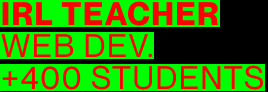
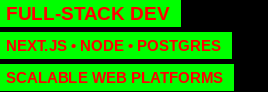
Update Career Area textures and timeline to Neelesh Yadav credentials

diff --git a/sources/Game/Game.js b/sources/Game/Game.js
@@ -163,12 +163,12 @@ export class Game
                 [ 'interactivePointsKeyIconATexture',      `interactivePoints/interactivePointsKeyIconA.${compressedTextureExtension}${cb}`,     compressedTextureFormat, (resource) => { resource.minFilter = THREE.NearestFilter; resource.magFilter = THREE.NearestFilter; resource.generateMipmaps = false } ],
                 [ 'jukeboxMusicNotes',                     `jukebox/jukeboxMusicNotes.${compressedTextureExtension}${cb}`,                       compressedTextureFormat, (resource) => { resource.minFilter = THREE.LinearFilter; resource.magFilter = THREE.LinearFilter; resource.generateMipmaps = false } ],
                 [ 'achievementsGlyphsTexture',             `achievements/glyphs.${compressedTextureExtension}${cb}`,                             compressedTextureFormat, (resource) => { resource.minFilter = THREE.LinearFilter; resource.magFilter = THREE.LinearFilter; resource.generateMipmaps = false; resource.wrapS = THREE.RepeatWrapping; } ],
-                [ 'careerFreelancerTexture',               `career/careerFreelancer.${compressedTextureExtension}${cb}`,                         compressedTextureFormat, (resource) => { resource.flipY = false; resource.minFilter = THREE.LinearFilter; resource.magFilter = THREE.LinearFilter; resource.generateMipmaps = false; resource.wrapS = THREE.ClampToEdgeWrapping; resource.wrapT = THREE.ClampToEdgeWrapping; } ],
-                [ 'careerHeticTexture',                    `career/careerHetic.${compressedTextureExtension}${cb}`,                              compressedTextureFormat, (resource) => { resource.flipY = false; resource.minFilter = THREE.LinearFilter; resource.magFilter = THREE.LinearFilter; resource.generateMipmaps = false; resource.wrapS = THREE.ClampToEdgeWrapping; resource.wrapT = THREE.ClampToEdgeWrapping; } ],
-                [ 'careerImmersiveGardenTexture',          `career/careerImmersiveGarden.${compressedTextureExtension}${cb}`,                    compressedTextureFormat, (resource) => { resource.flipY = false; resource.minFilter = THREE.LinearFilter; resource.magFilter = THREE.LinearFilter; resource.generateMipmaps = false; resource.wrapS = THREE.ClampToEdgeWrapping; resource.wrapT = THREE.ClampToEdgeWrapping; } ],
-                [ 'careerIRLTeacherTexture',               `career/careerIRLTeacher.${compressedTextureExtension}${cb}`,                         compressedTextureFormat, (resource) => { resource.flipY = false; resource.minFilter = THREE.LinearFilter; resource.magFilter = THREE.LinearFilter; resource.generateMipmaps = false; resource.wrapS = THREE.ClampToEdgeWrapping; resource.wrapT = THREE.ClampToEdgeWrapping; } ],
-                [ 'careerOnlineTeacherTexture',            `career/careerOnlineTeacher.${compressedTextureExtension}${cb}`,                      compressedTextureFormat, (resource) => { resource.flipY = false; resource.minFilter = THREE.LinearFilter; resource.magFilter = THREE.LinearFilter; resource.generateMipmaps = false; resource.wrapS = THREE.ClampToEdgeWrapping; resource.wrapT = THREE.ClampToEdgeWrapping; } ],
-                [ 'careerUzikTexture',                     `career/careerUzik.${compressedTextureExtension}${cb}`,                               compressedTextureFormat, (resource) => { resource.flipY = false; resource.minFilter = THREE.LinearFilter; resource.magFilter = THREE.LinearFilter; resource.generateMipmaps = false; resource.wrapS = THREE.ClampToEdgeWrapping; resource.wrapT = THREE.ClampToEdgeWrapping; } ],
+                [ 'careerFreelancerTexture',               `career/careerFreelancer.png${cb}`,                                   'texture', (resource) => { resource.flipY = false; resource.minFilter = THREE.LinearFilter; resource.magFilter = THREE.LinearFilter; resource.generateMipmaps = false; resource.wrapS = THREE.ClampToEdgeWrapping; resource.wrapT = THREE.ClampToEdgeWrapping; } ],
+                [ 'careerHeticTexture',                    `career/careerHetic.png${cb}`,                                        'texture', (resource) => { resource.flipY = false; resource.minFilter = THREE.LinearFilter; resource.magFilter = THREE.LinearFilter; resource.generateMipmaps = false; resource.wrapS = THREE.ClampToEdgeWrapping; resource.wrapT = THREE.ClampToEdgeWrapping; } ],
+                [ 'careerImmersiveGardenTexture',          `career/careerImmersiveGarden.png${cb}`,                              'texture', (resource) => { resource.flipY = false; resource.minFilter = THREE.LinearFilter; resource.magFilter = THREE.LinearFilter; resource.generateMipmaps = false; resource.wrapS = THREE.ClampToEdgeWrapping; resource.wrapT = THREE.ClampToEdgeWrapping; } ],
+                [ 'careerIRLTeacherTexture',               `career/careerIRLTeacher.png${cb}`,                                   'texture', (resource) => { resource.flipY = false; resource.minFilter = THREE.LinearFilter; resource.magFilter = THREE.LinearFilter; resource.generateMipmaps = false; resource.wrapS = THREE.ClampToEdgeWrapping; resource.wrapT = THREE.ClampToEdgeWrapping; } ],
+                [ 'careerOnlineTeacherTexture',            `career/careerOnlineTeacher.png${cb}`,                                'texture', (resource) => { resource.flipY = false; resource.minFilter = THREE.LinearFilter; resource.magFilter = THREE.LinearFilter; resource.generateMipmaps = false; resource.wrapS = THREE.ClampToEdgeWrapping; resource.wrapT = THREE.ClampToEdgeWrapping; } ],
+                [ 'careerUzikTexture',                     `career/careerUzik.png${cb}`,                                         'texture', (resource) => { resource.flipY = false; resource.minFilter = THREE.LinearFilter; resource.magFilter = THREE.LinearFilter; resource.generateMipmaps = false; resource.wrapS = THREE.ClampToEdgeWrapping; resource.wrapT = THREE.ClampToEdgeWrapping; } ],
                 [ 'timeMachineScreenMGSTexture',           `timeMachine/timeMachineScreenMGS.${compressedTextureExtension}${cb}`,                compressedTextureFormat, (resource) => { resource.minFilter = THREE.NearestFilter; resource.magFilter = THREE.NearestFilter; resource.generateMipmaps = false; resource.wrapS = THREE.ClampToEdgeWrapping; resource.wrapT = THREE.ClampToEdgeWrapping; resource.colorSpace = THREE.SRGBColorSpace; } ],
                 [ 'timeMachineScreenFolioTexture',         `timeMachine/timeMachineScreenFolio.${compressedTextureExtension}${cb}`,              compressedTextureFormat, (resource) => { resource.minFilter = THREE.NearestFilter; resource.magFilter = THREE.NearestFilter; resource.generateMipmaps = false; resource.wrapS = THREE.ClampToEdgeWrapping; resource.wrapT = THREE.ClampToEdgeWrapping; resource.colorSpace = THREE.SRGBColorSpace; } ],
             ],

diff --git a/sources/Game/World/Areas/CareerArea.js b/sources/Game/World/Areas/CareerArea.js
@@ -155,7 +155,8 @@ export class CareerArea extends Area
         this.year.originZ = this.year.group.position.z
         this.year.size = 17
         this.year.offsetTarget = 0
-        this.year.start = 2008
+        this.year.start = 2022
+        this.year.end = 2026
         this.year.current = this.year.start
 
         //    Digit indexes
@@ -233,7 +234,7 @@ export class CareerArea extends Area
             this.year.digits.push(digit)
         }
 
-        this.year.updateDigits = (year = 2025) =>
+        this.year.updateDigits = (year = 2026) =>
         {
             const yearString = `${year}`
             let i = 0
@@ -365,7 +366,8 @@ export class CareerArea extends Area
         const finalPositionZ = this.year.originZ - this.year.offsetTarget
         this.year.group.position.z += (finalPositionZ - this.year.group.position.z) * this.game.ticker.deltaScaled * 10
 
-        const yearCurrent = this.year.start + Math.floor(this.year.offsetTarget)
+        const progress = clamp(this.year.offsetTarget / this.year.size, 0, 1)
+        const yearCurrent = Math.min(this.year.end, this.year.start + Math.floor(progress * (this.year.end - this.year.start + 0.99)))
 
         if(yearCurrent !== this.year.current)
         {
